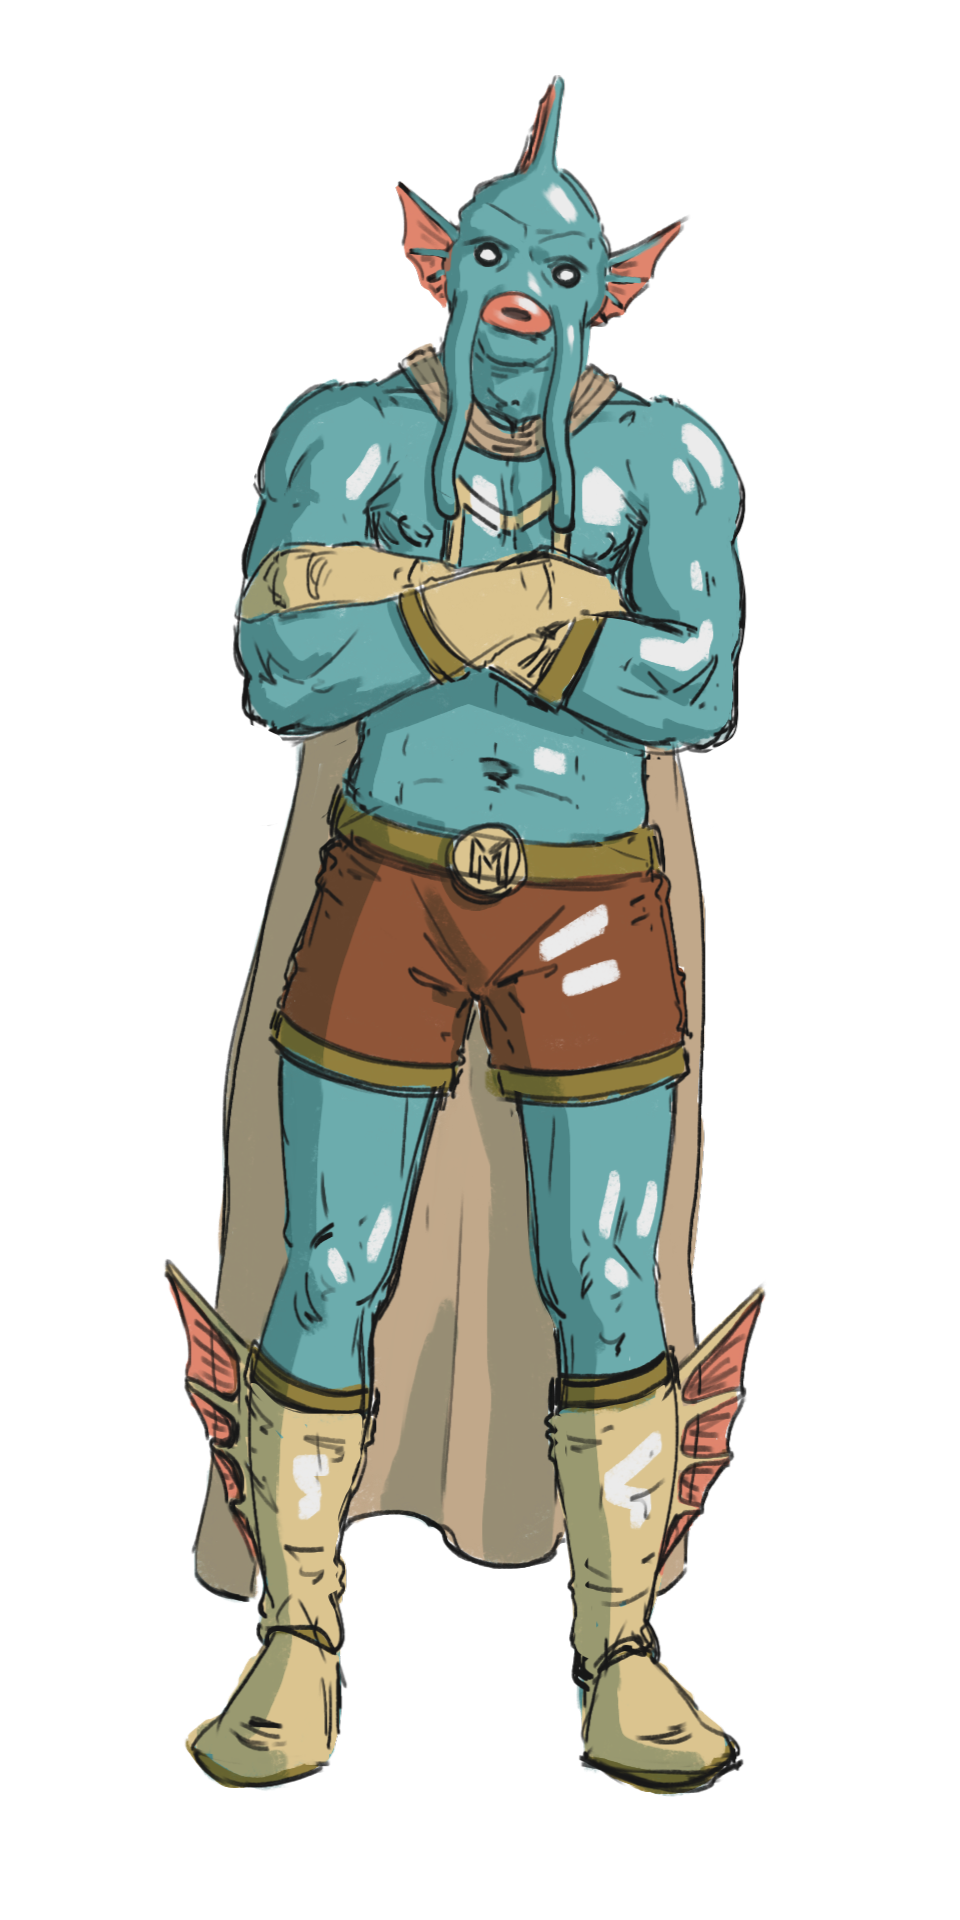
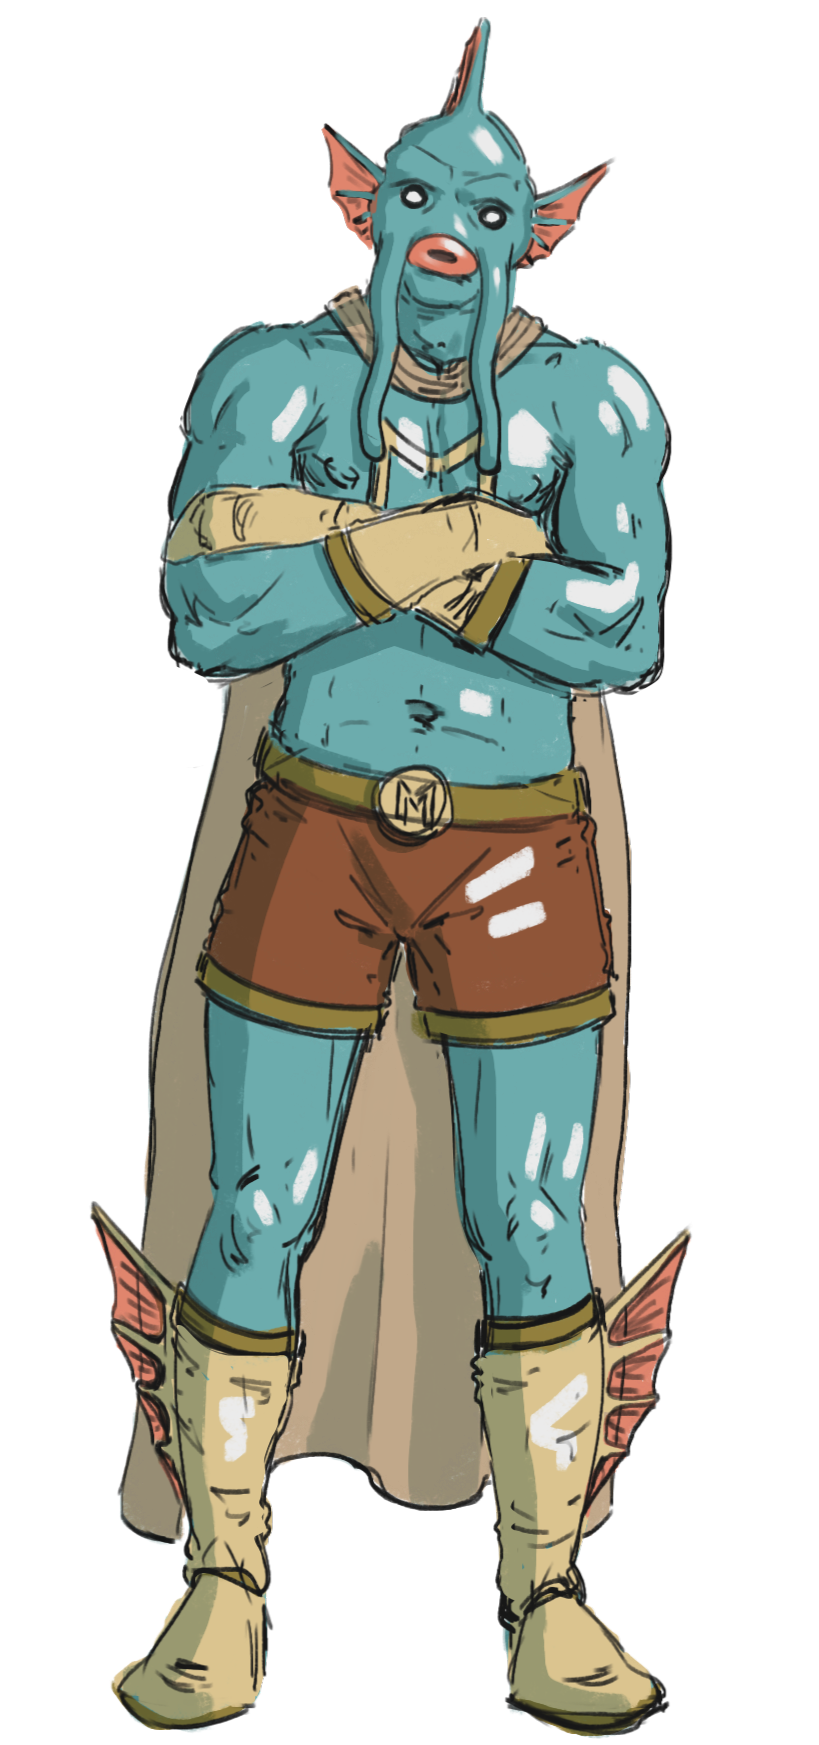
Aggiunti alcuni png delle Mascotte. Risolto un bug importante che non permetteva ai textbox di incrementare la dimensione man mano che il testo si generava.

diff --git a/src/components/textboxes.tsx b/src/components/textboxes.tsx
@@ -25,7 +25,7 @@ export const MenuTextBox: FC<{ className?: string; onAllStepsCompleted?: () => v
     >
       <Step>
         <div className="text-center">
-          {/*shownPages.has(1)*/true ?(
+          {shownPages.has(1) ?(
             <p className="text-lg tracking-wide break-words mb-4 text-balance">
               {page[0] ?? ""}
             </p>
@@ -45,7 +45,7 @@ export const MenuTextBox: FC<{ className?: string; onAllStepsCompleted?: () => v
       </Step>
       <Step>
         <div className="text-center">
-          {/*shownPages.has(2)*/true ?(
+          {shownPages.has(2) ?(
             <p className="text-lg tracking-wide break-words mb-4 text-balance">
               {page[1] ?? ""}
             </p>
@@ -65,7 +65,7 @@ export const MenuTextBox: FC<{ className?: string; onAllStepsCompleted?: () => v
       </Step>
       <Step>
         <div className="text-center">
-          {/*shownPages.has(3)*/true ?(
+          {shownPages.has(3)?(
             <p className="text-lg tracking-wide break-words mb-4 text-balance">
               {page[2] ?? ""}
             </p>
@@ -85,7 +85,7 @@ export const MenuTextBox: FC<{ className?: string; onAllStepsCompleted?: () => v
       </Step>
       <Step>
         <div className="text-center">
-          {/*shownPages.has(4)*/true ?(
+          {shownPages.has(4) ?(
             <p className="text-lg tracking-wide break-words mb-4 text-balance">
               {page[3] ?? ""}
             </p>

diff --git a/src/components/sections/section1-menu.tsx b/src/components/sections/section1-menu.tsx
@@ -11,13 +11,12 @@ export const MenuContent = () =>{
         updateStep(step-1)
       };
     const avatarImages = [
-    "/assets/MascotteAnnoyed.png",   // step 0
-    "/assets/MascotteFierce.png",     // step 1
-    "/assets/MascottePointing.png",  // step 2
-    "/assets/MascotteAnnoyed.png", // step 3
+    {src: "/assets/MascotteSmile.png", size:"h-[500px] w-[230px]"}, 
+    {src: "/assets/MascotteFierce.png", size:"h-[500px] w-[280px]"},
+    {src: "/assets/MascottePointing.png", size:"h-[500px] w-[280px]"},
+    {src: "/assets/MascotteSmile.png", size:"h-[500px] w-[230px]"},
     ]
-    const currentAvatar =
-    avatarImages[currentStep] ?? avatarImages[0]
+    const currentAvatar = avatarImages[currentStep] ?? avatarImages[0]
     return(
     <div className="h-full w-full grid grid-cols-3 grid-rows-7 font-hand pointer-events-auto pr-5 pl-5">
       <div className="col-span-3 flex justify-center items-center">
@@ -40,10 +39,10 @@ export const MenuContent = () =>{
       </div>
       <AnimatePresence mode="wait">
         <motion.img
-        key={currentAvatar}
-        src={currentAvatar}
+        key={currentAvatar?.src}
+        src={currentAvatar?.src}
         alt="Avatar"
-        className="absolute bottom-0 right-0 h-[500px] w-[250px] z-0"
+        className={`absolute bottom-0 right-0 ${currentAvatar?.size} z-0`}
         initial={{ opacity: 0, y: 0 }}
         animate={{ opacity: 1, y: 0 }}
         exit={{ opacity: 0 }}

diff --git a/src/components/sections/section4-eu-map.tsx b/src/components/sections/section4-eu-map.tsx
@@ -102,11 +102,12 @@ export const EuMapContent = () => {
         {dictionary.title}
       </h1>
     </div>
-    <div className="col-span-4">
+    <div className="col-span-4 z-30">
       <MapTextBox updateMap={handleMapStepChange}/>    
     </div>
+    <img src="/assets/MascotteEarth.png" alt="Mascotte" className="absolute absolute-center-x bottom-96 h-[160px] w-[240px] z-20"/>
     <div className="absolute-center-x bottom-20 text-transparent flex items-center justify-center p-5 z-10">
-      <div className="aspect-square w-[270px] rounded-full border-4 border-[#674717] overflow-hidden -translate-y-10">
+      <div className="aspect-square w-[273px] rounded-full border-4 border-[#674717] overflow-hidden -translate-y-10">
       <Map
         ref={mapRef}
         dragPan={false}

diff --git a/src/components/stepper.tsx b/src/components/stepper.tsx
@@ -204,9 +204,19 @@ function SlideTransition({ children, direction, onHeightReady }: SlideTransition
   const containerRef = useRef<HTMLDivElement | null>(null);
 
   useLayoutEffect(() => {
-    if (containerRef.current) {
-      onHeightReady(containerRef.current.offsetHeight);
-    }
+    const el = containerRef.current;
+    if (!el) return;
+
+    // Imposta l’altezza iniziale
+    onHeightReady(el.offsetHeight);
+
+    // Osserva i cambiamenti di dimensione
+    const observer = new ResizeObserver(() => {
+      onHeightReady(el.offsetHeight);
+    });
+    observer.observe(el);
+
+    return () => observer.disconnect();
   }, [children, onHeightReady]);
 
   return (
